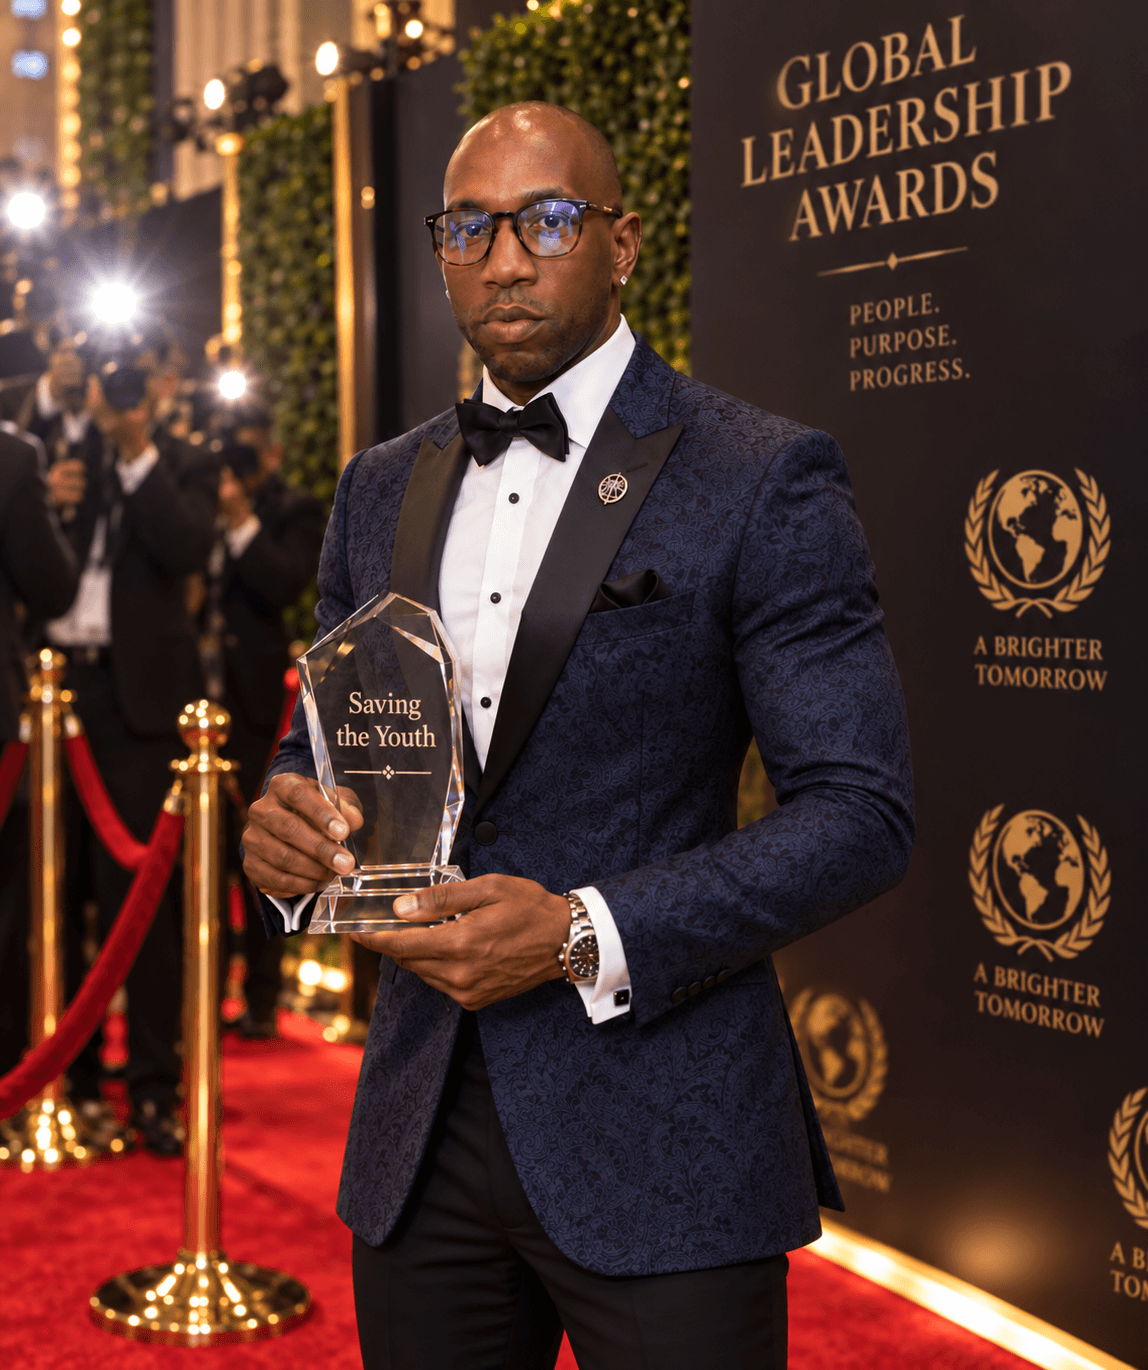
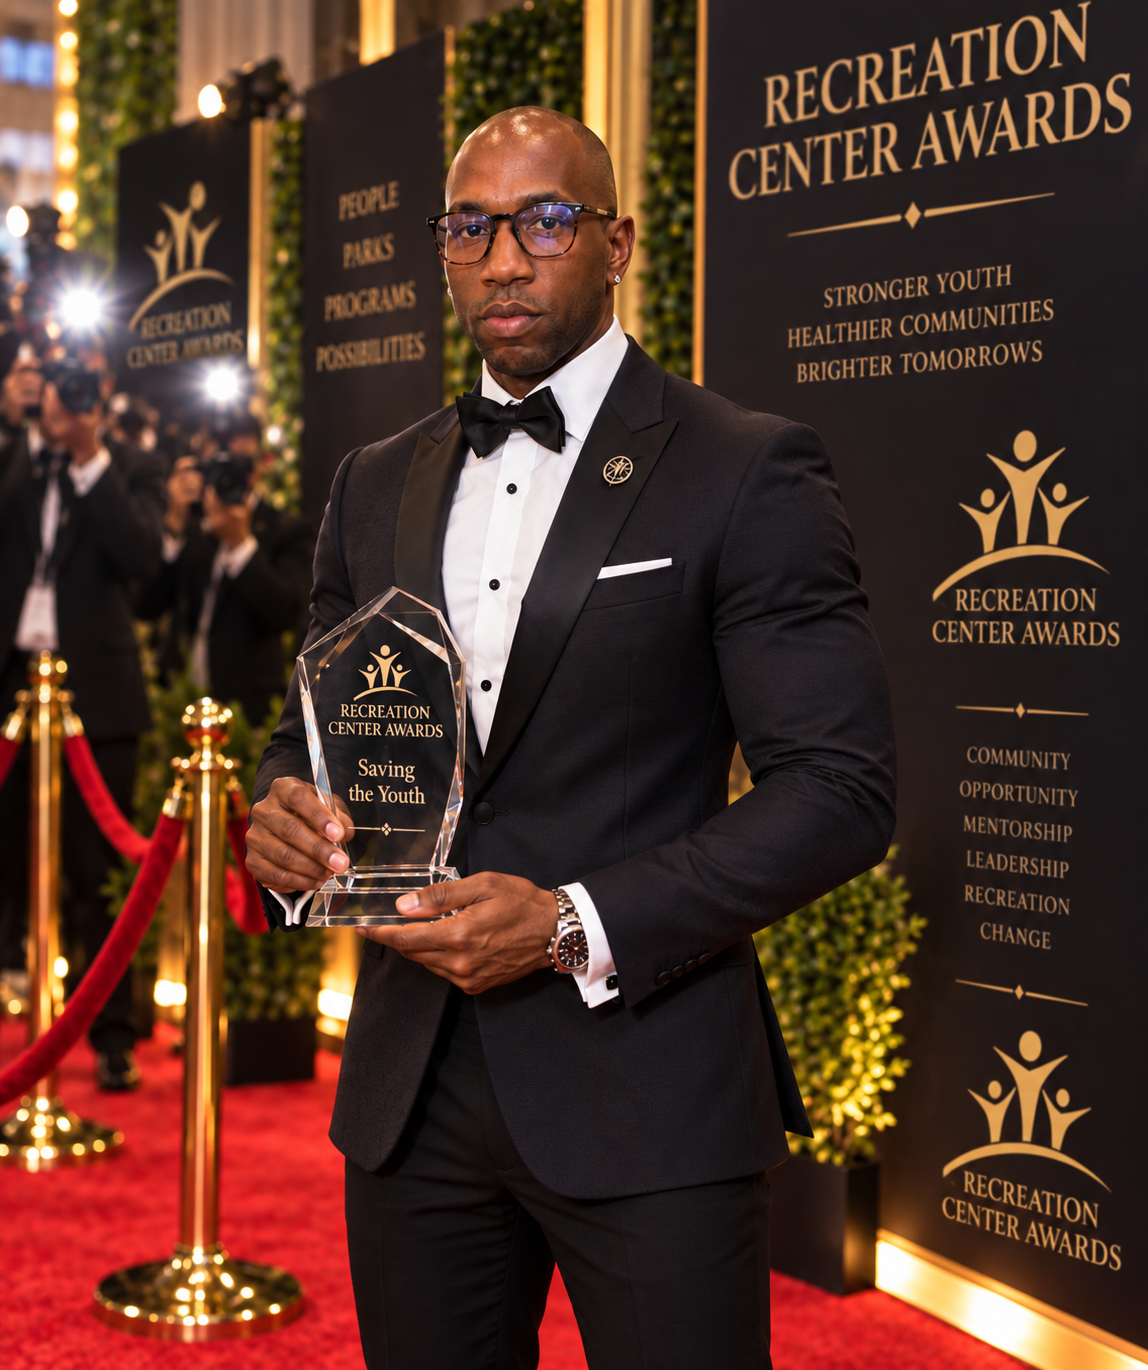
fix(founder): update photo and caption to Recreation Center Awards

diff --git a/src/pages/FounderStory.tsx b/src/pages/FounderStory.tsx
@@ -62,8 +62,8 @@ export default function FounderStory() {
           <div className="eyebrow mb-5">Founder story &amp; origin</div>
           <h2 className="text-3xl font-bold leading-tight md:text-5xl">The Problem No One Had Named</h2>
           <figure className="mx-auto mt-9 max-w-xs md:max-w-sm">
-            <img src="/nathaniel-clarke.png" alt="Nathaniel Clarke, founder of HCCGSA LLC, receiving the &quot;Saving the Youth&quot; honor at the Community Initiative Awards" className="w-full rounded-lg border border-haven-gold/25 shadow-lg" width={1148} height={1370} />
-            <figcaption className="mt-3 text-sm italic leading-6 text-white/55">Nathaniel Clarke received the &quot;Saving the Youth&quot; honor at the Community Initiative Awards.</figcaption>
+            <img src="/nathaniel-clarke.png" alt="Nathaniel Clarke, founder of HCCGSA LLC, receiving the &quot;Saving the Youth&quot; honor at the Recreation Center Awards" className="w-full rounded-lg border border-haven-gold/25 shadow-lg" width={1148} height={1370} />
+            <figcaption className="mt-3 text-sm italic leading-6 text-white/55">Nathaniel Clarke received the &quot;Saving the Youth&quot; honor at the Recreation Center Awards.</figcaption>
           </figure>
           <p className="mx-auto mt-7 max-w-3xl text-lg leading-8 text-white/75">Every major hotel brand in the world has a loyalty program. Independent hotels have none of that infrastructure — and every time a guest checks in, the hotel starts from zero. Nathaniel Clarke called this <strong className="text-white">Institutional Alzheimer&apos;s</strong>. Then he built the solution.</p>
         </div>
